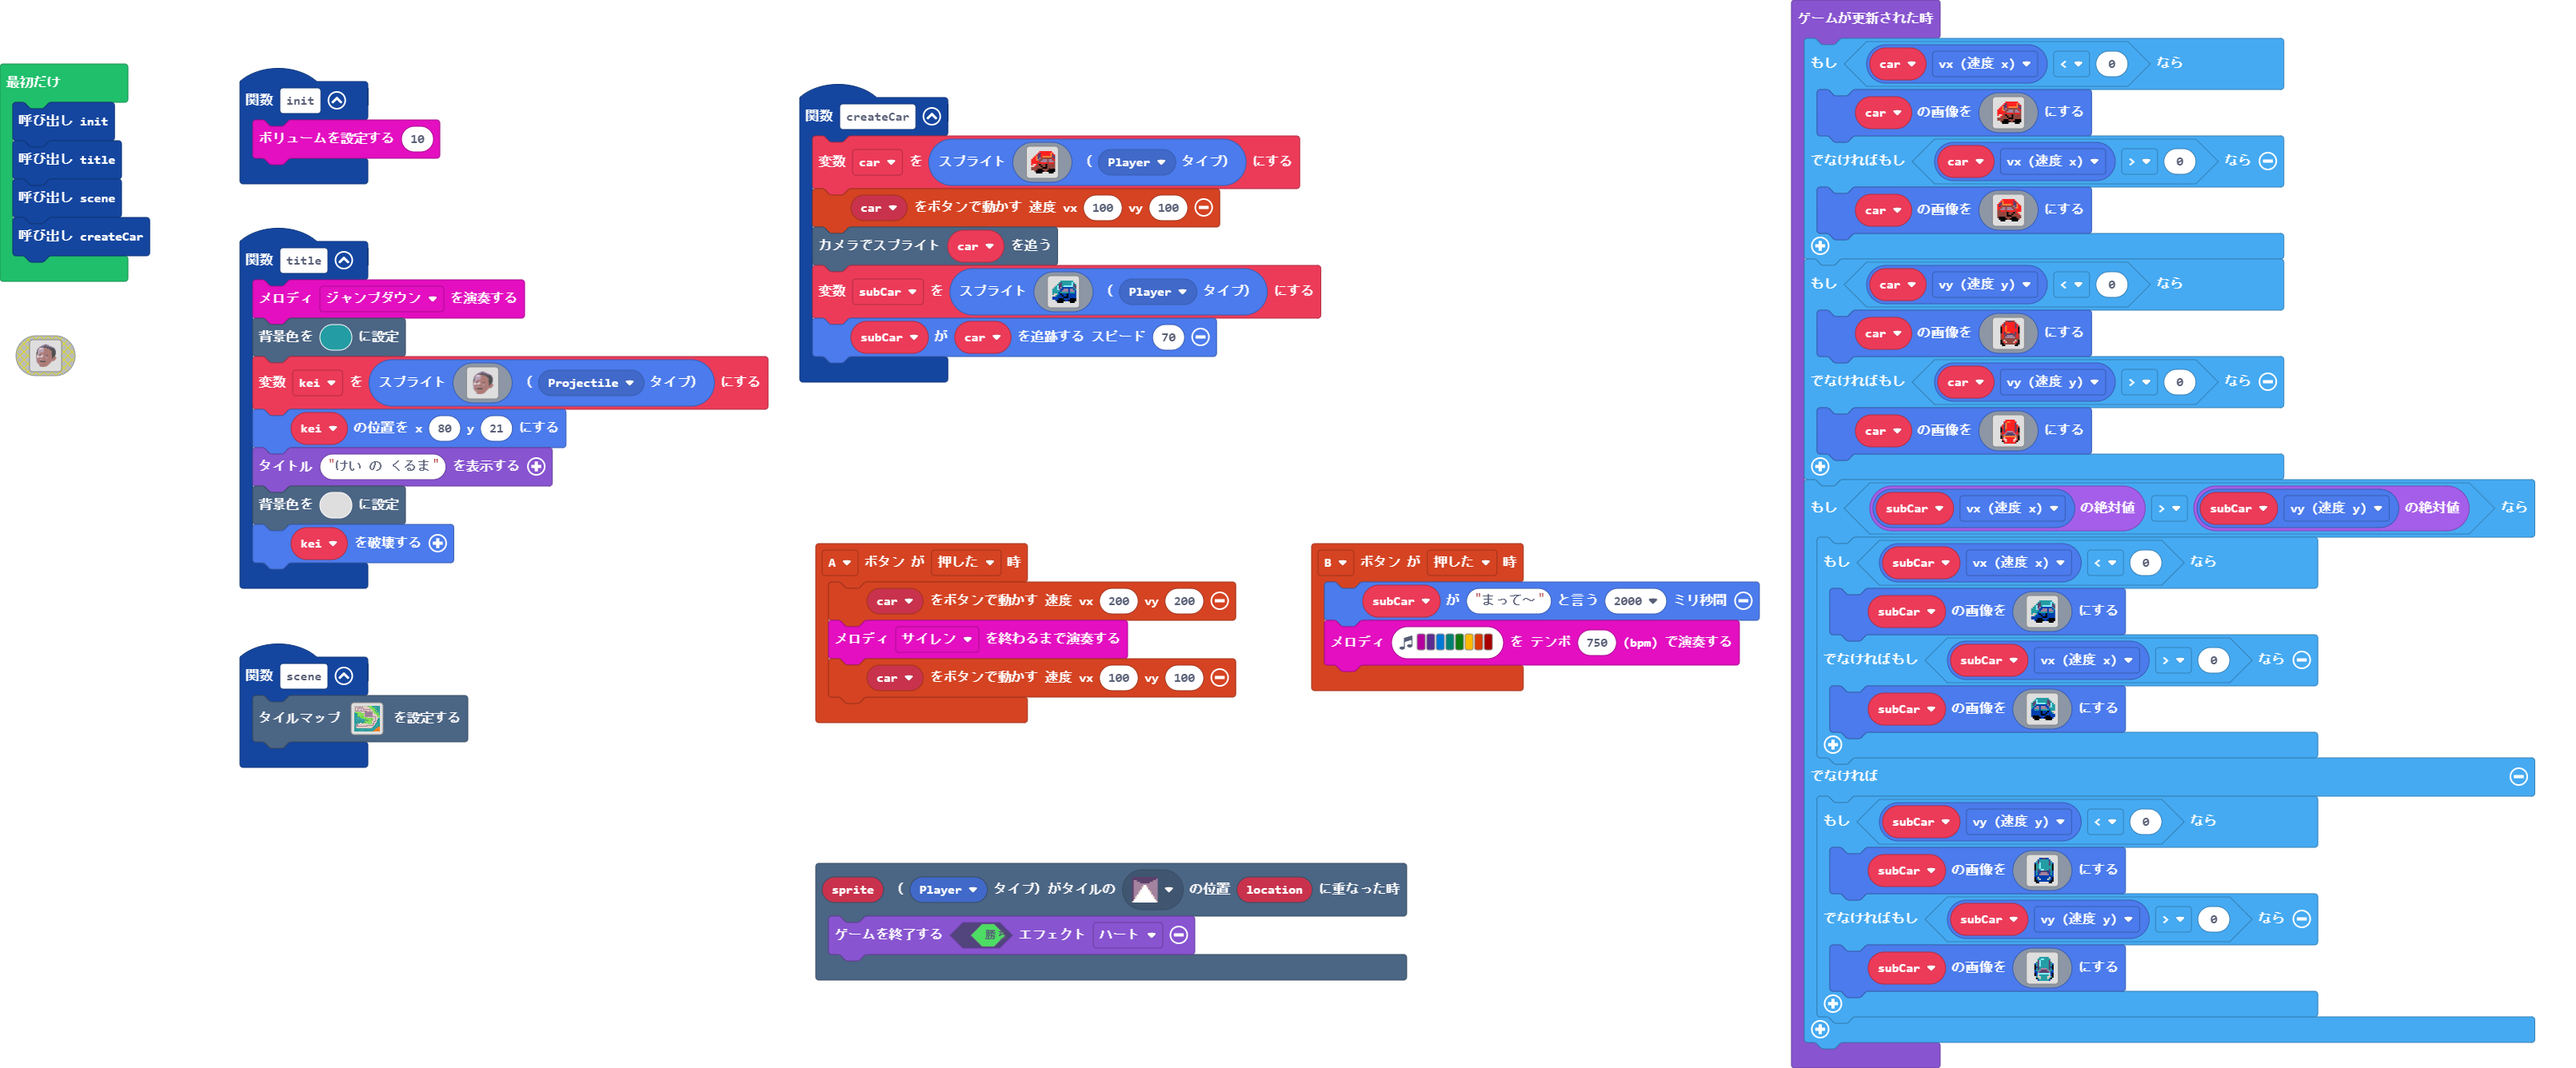
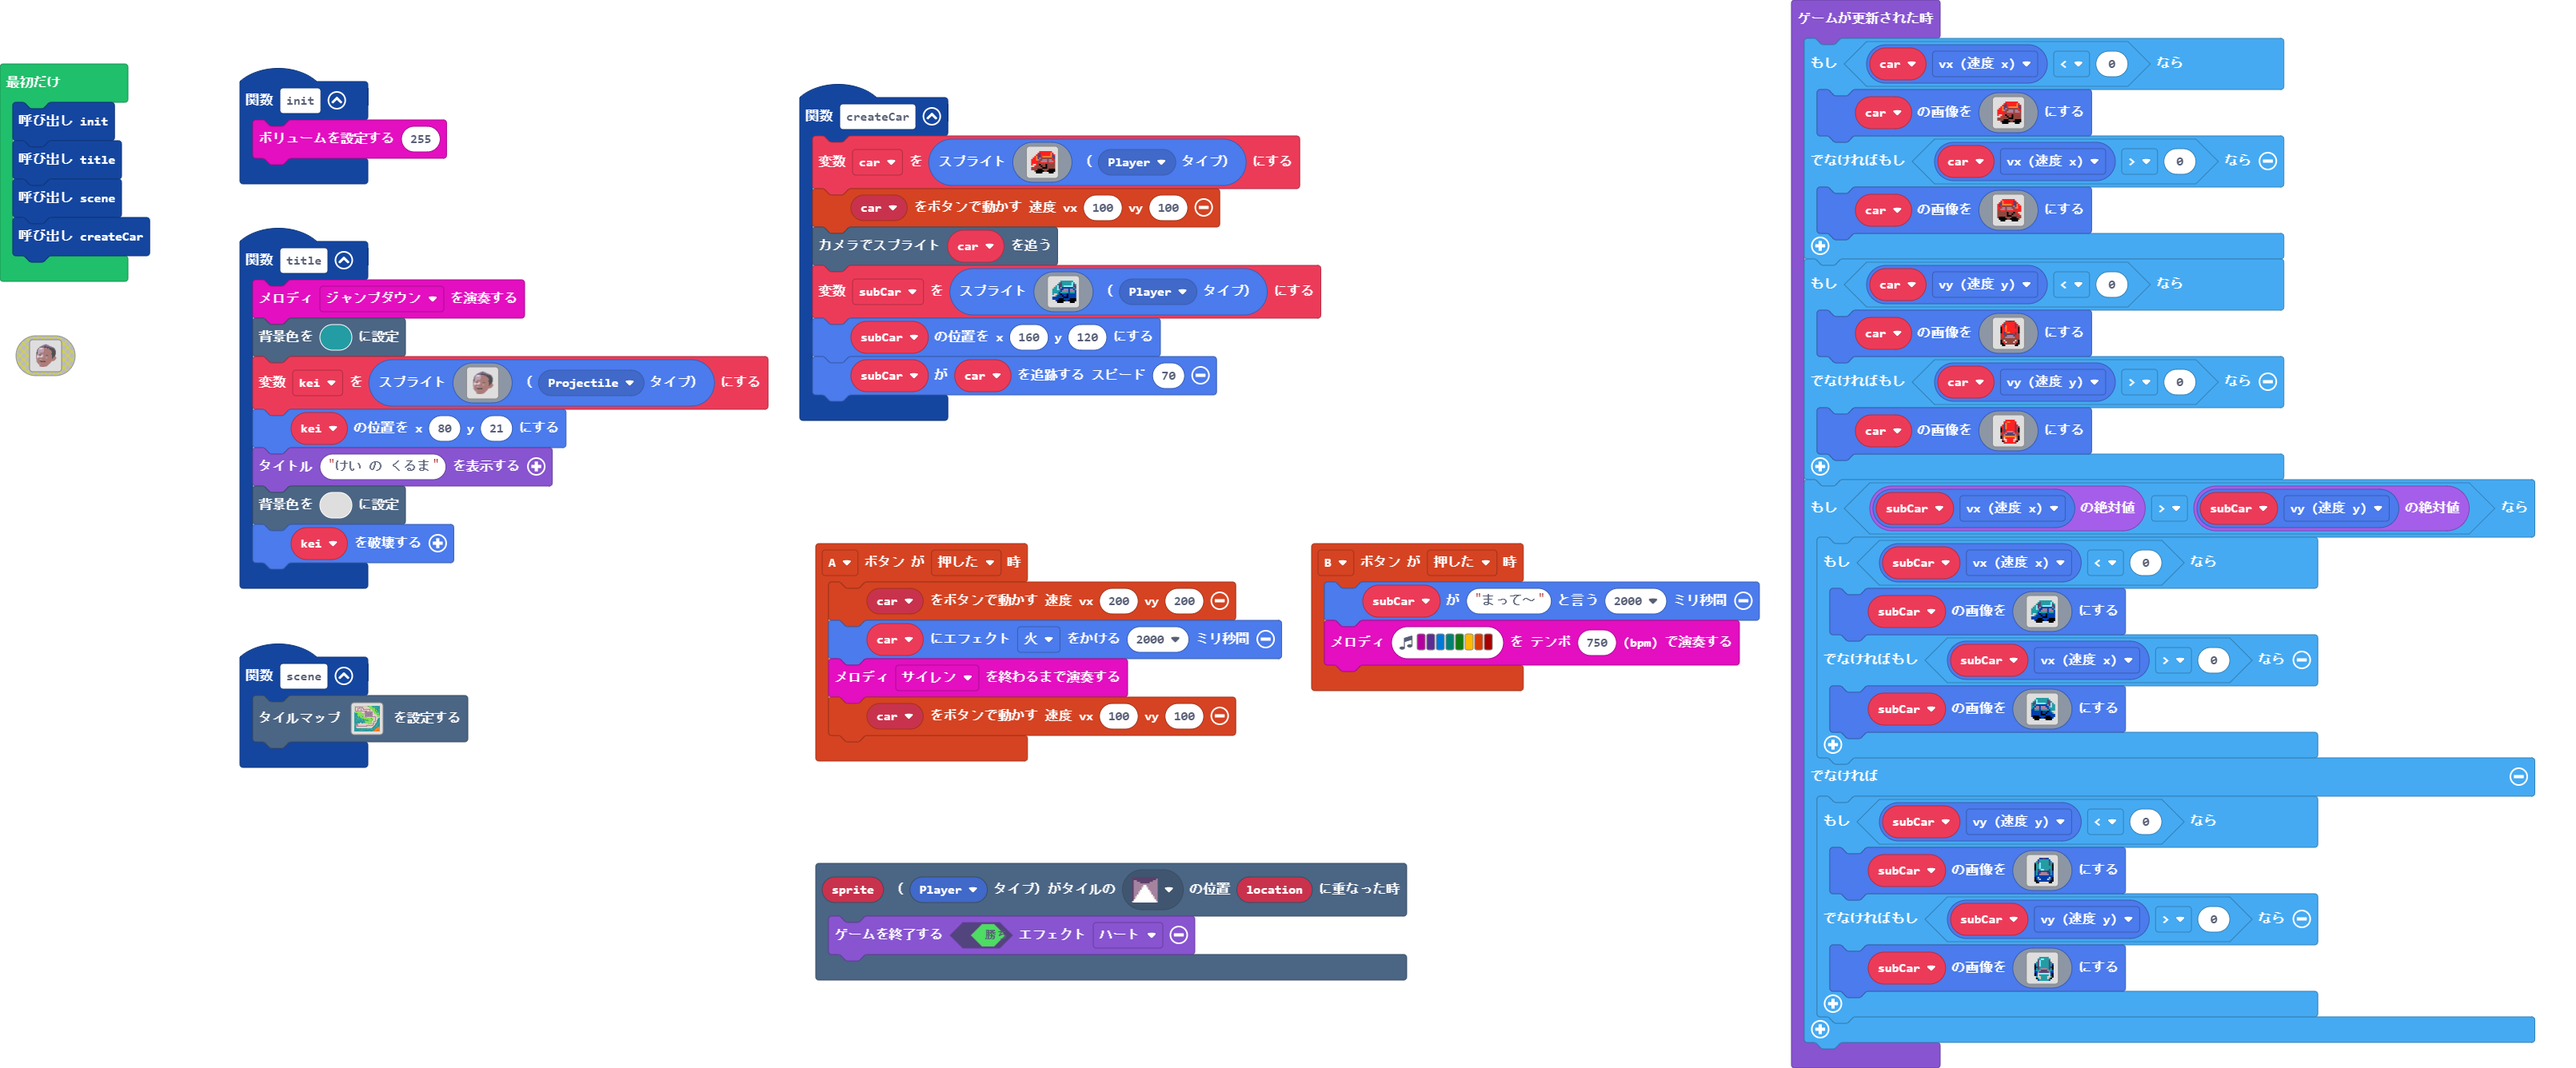
Update main.blocks, main.ts

Changed region(s): [[0.3105, 0.5831, 0.4967, 0.7365], [0.3105, 0.2762, 0.4967, 0.399], [0.1552, 0.1228, 0.1863, 0.1534]]

diff --git a/main.ts b/main.ts
@@ -131,10 +131,11 @@ function createCar () {
         . . . . f f f f . . . . f f f . 
         . . . . . . . . . . . . . . . . 
         `, SpriteKind.Player)
+    subCar.setPosition(160, 120)
     subCar.follow(car, 70)
 }
 function init () {
-    music.setVolume(10)
+    music.setVolume(255)
 }
 scene.onOverlapTile(SpriteKind.Player, sprites.dungeon.hazardSpike, function (sprite, location) {
     game.over(true, effects.hearts)
@@ -145,6 +146,7 @@ controller.B.onEvent(ControllerButtonEvent.Pressed, function () {
 })
 controller.A.onEvent(ControllerButtonEvent.Pressed, function () {
     controller.moveSprite(car, 200, 200)
+    car.startEffect(effects.fire, 2000)
     music.siren.playUntilDone()
     controller.moveSprite(car, 100, 100)
 })
